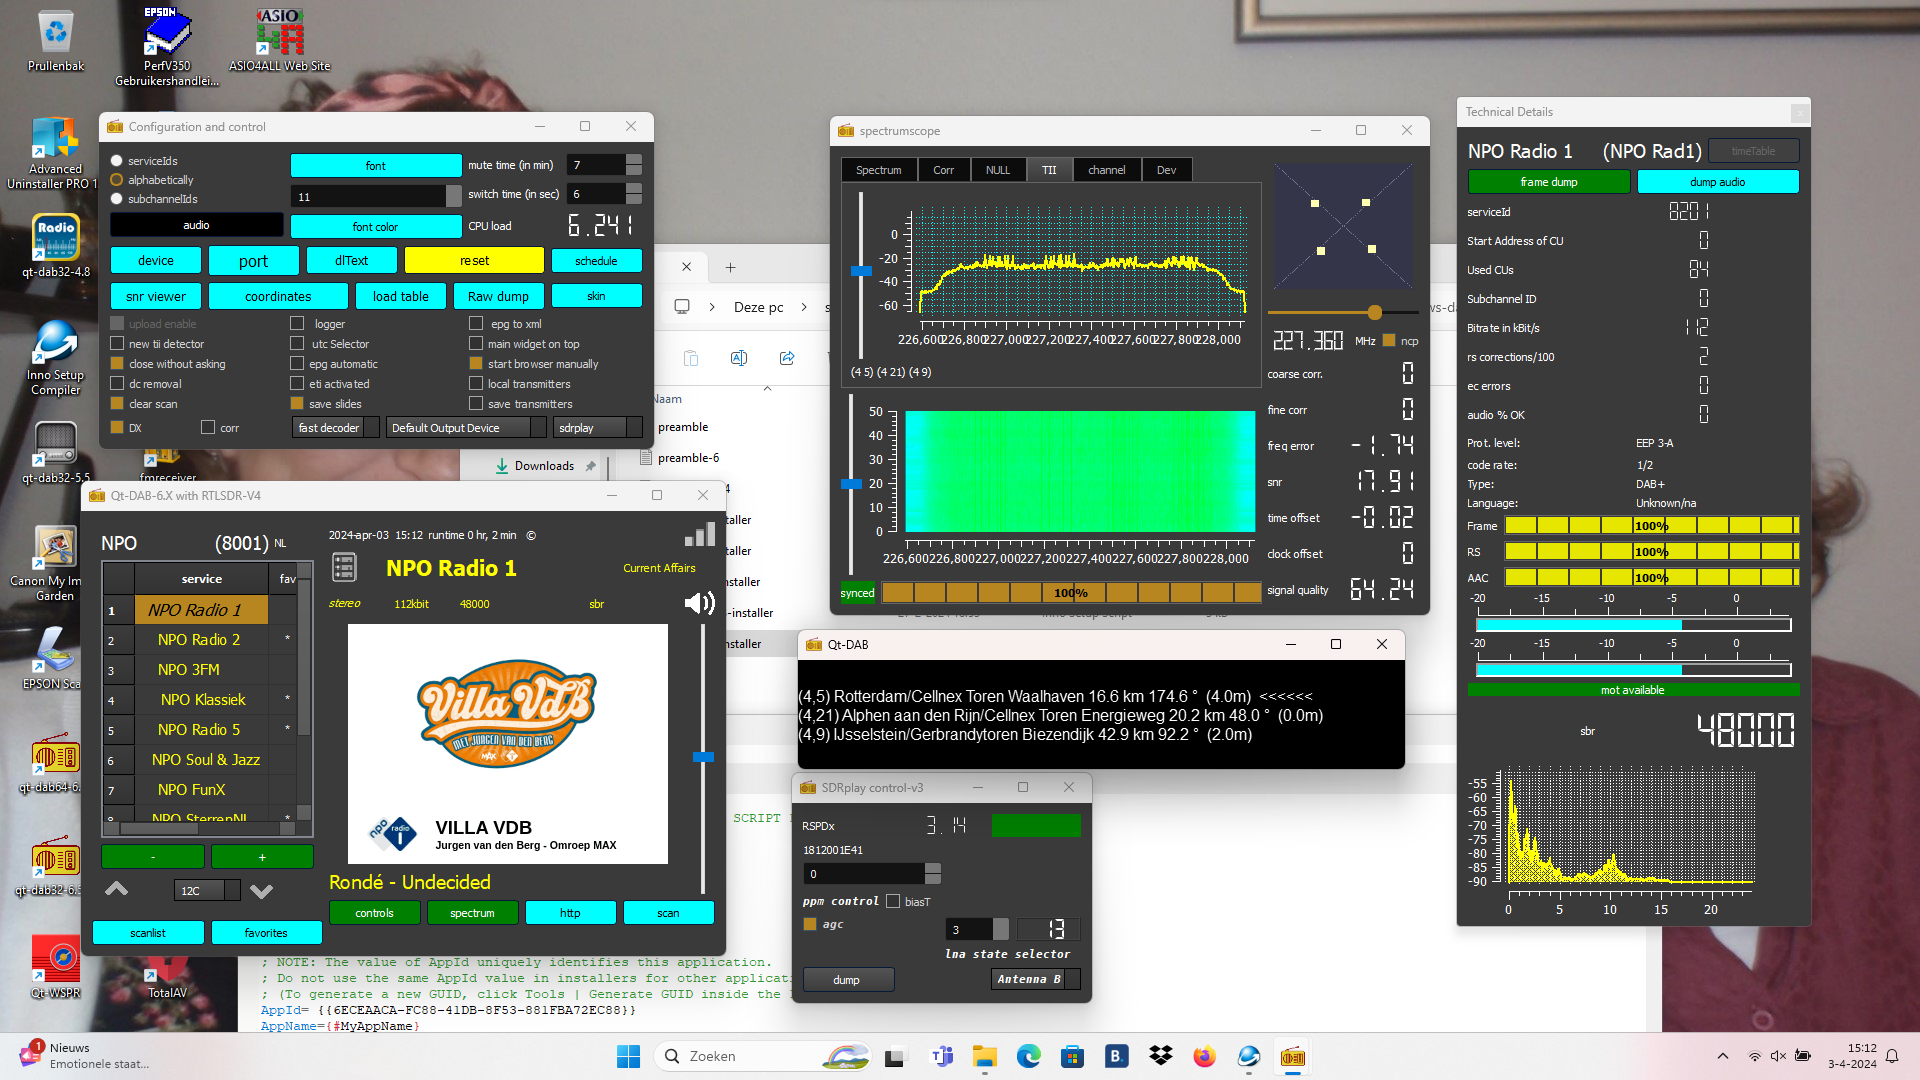
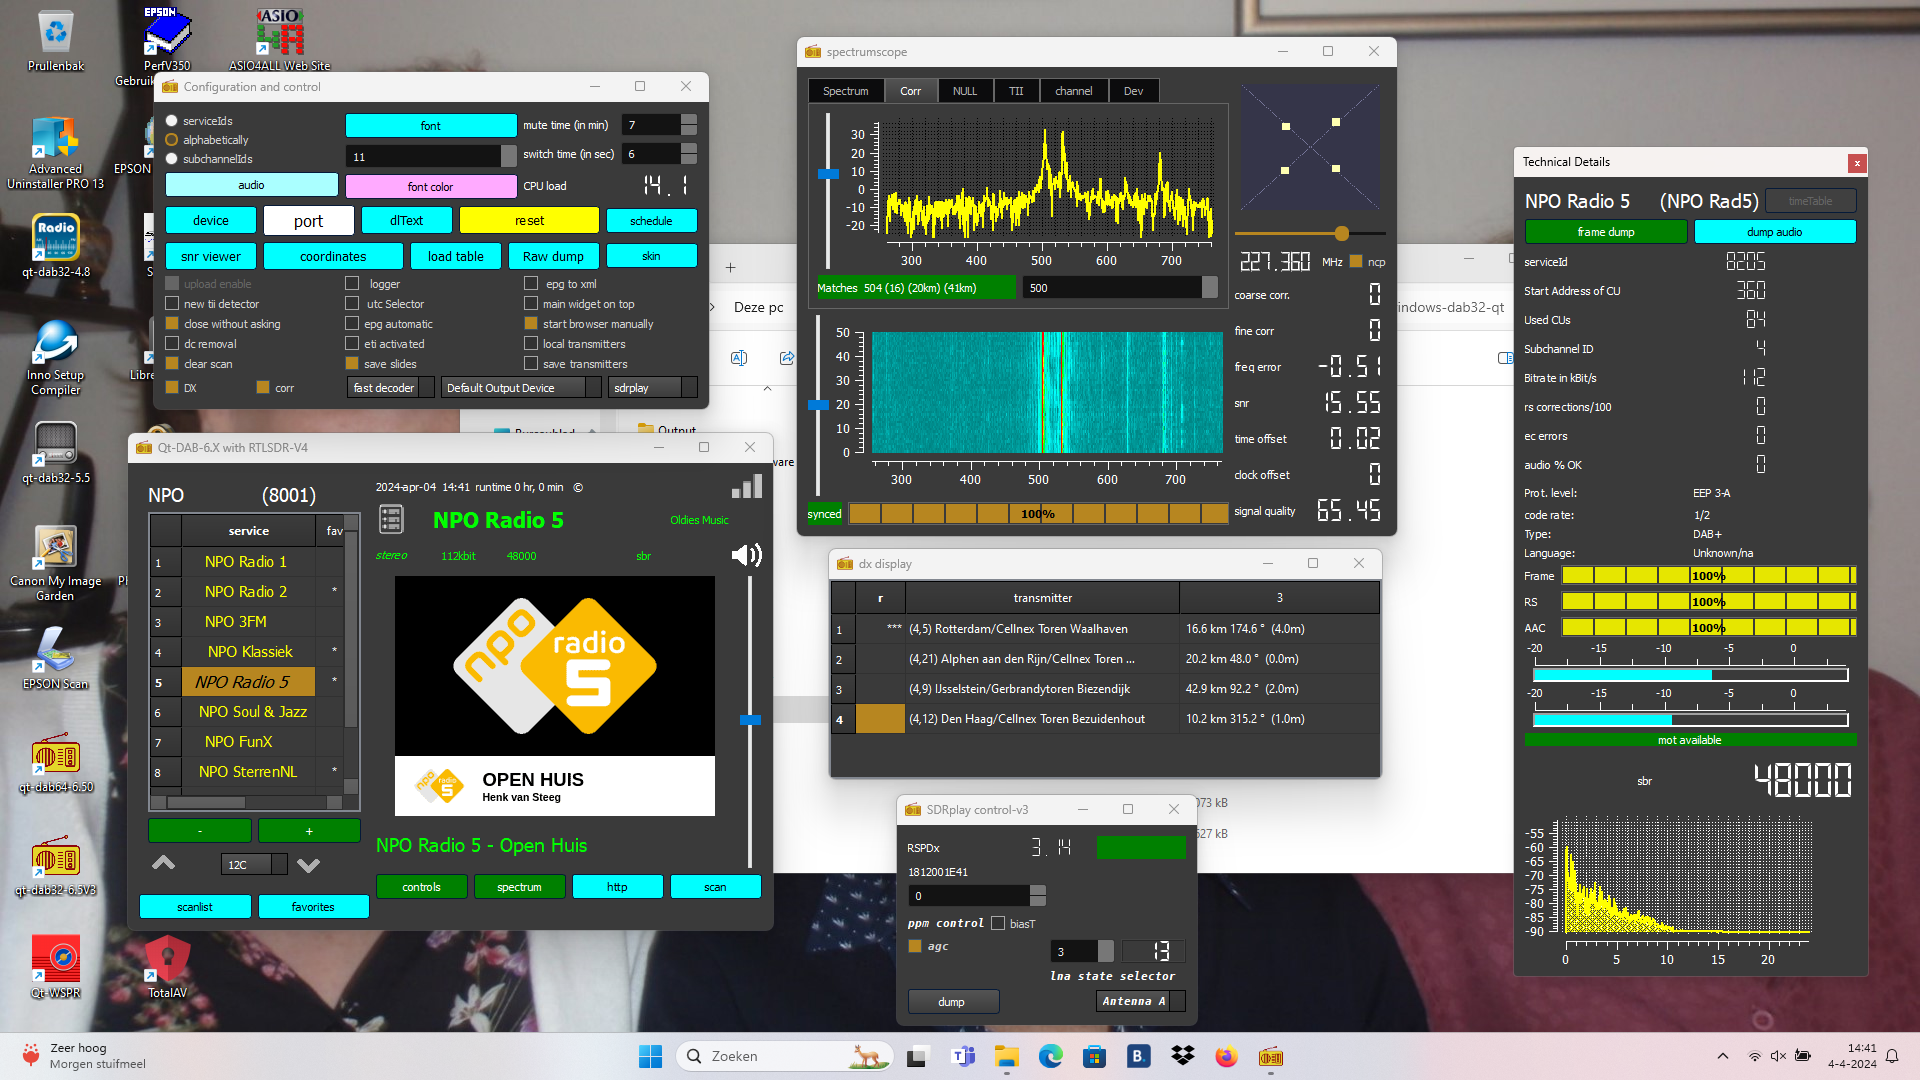
improved DX support

diff --git a/qt-dab-RC/radio.cpp b/qt-dab-RC/radio.cpp
@@ -160,7 +160,7 @@ char	LABEL_STYLE [] = "color:lightgreen";
 	                                        my_scanListHandler (this,
 	                                                        scanListFile),
 	                                        chooseDevice (Si),
-	                                        dxDisplay (nullptr),
+	                                        my_dxDisplay (this, Si),
 	                                        scanMonitor (this, Si, freqExtension) {
 int16_t k;
 QString h;
@@ -178,12 +178,7 @@ QString h;
 	contentTable_p		= nullptr;
 	scanTable_p		= nullptr;
 	mapHandler		= nullptr;
-	dxDisplay. setWindowTitle ("Transmitters received");
-	dxDisplayText		= new QLabel ();
-	QVBoxLayout	*LV	= new QVBoxLayout ();
-	LV	-> addWidget (dxDisplayText);
-	dxDisplay. setLayout (LV);
-	dxDisplay. hide ();
+	my_dxDisplay. hide ();
 //	"globals" is introduced to reduce the number of parameters
 //	for the ofdmHandler
 	globals. spectrumBuffer	= &spectrumBuffer;
@@ -1179,7 +1174,7 @@ void	RadioInterface::TerminateProcess () {
 	   usleep (1000);
 	hideButtons	();
 
-	dxDisplay. hide ();
+	my_dxDisplay. hide ();
 	store_widget_position (dabSettings_p, this, "mainWidget");
 	newDisplay. hide ();
 //
@@ -2202,7 +2197,7 @@ void	RadioInterface::cleanScreen	() {
 	techWindow_p			-> cleanUp ();
 	setStereo	(false);
 	distanceLabel			-> setText ("");
-	dxDisplayText			-> setText ("");
+	my_dxDisplay. cleanUp ();
 	transmitter_country		-> setText ("");
 	newDisplay. ficError_display	-> setValue (0);
 }
@@ -2278,7 +2273,7 @@ int	tunedFrequency	=
 	if (channel. realChannel)
 	   dabSettings_p	-> setValue (CHANNEL_NAME, theChannel);
 	distanceLabel		-> setText ("");
-	dxDisplayText		-> setText ("");
+	my_dxDisplay. cleanUp ();
 	newDisplay. show_transmitters (channel. transmitters);
 	bool localTransmitters =
 	             configHandler_p -> localTransmitterSelector_active ();
@@ -3590,10 +3585,11 @@ cacheElement	theTransmitter;
 	   distanceLabel ->  setFont (f);
 	}
 	else {
-	   QFont f ("Arial", 12);
-	   dxDisplayText -> setFont (f);
+	   my_dxDisplay. cleanUp ();
+	   my_dxDisplay. show ();
 	}
 	QString labelText;
+	int teller = 0;
 	for (auto &theTr : channel. transmitters) {
 	   position thePosition;
 	   thePosition. latitude	= theTr. theTransmitter. latitude;
@@ -3621,18 +3617,19 @@ cacheElement	theTransmitter;
 	      channel. corner	= theCorner;
 	      channel. height	= height;
 	   }
-	int tiiValue_local	= theTr. tiiValue;
-	   if (labelText != "")
-	      labelText += "\n";
-	   labelText += "(" + QString::number (tiiValue_local >> 8) + ","
+	   int tiiValue_local	= theTr. tiiValue;
+	   labelText = "(" + QString::number (tiiValue_local >> 8) + ","
 	                    + QString::number (tiiValue_local & 0xFF) + ") "
-	                    + theName + " " 
+	                    + theName + " ";
+	   QString text2 =  " "
 	                    + QString::number (theDistance, 'f', 1) + " km " 
 	                    + QString::number (theCorner, 'f', 1) 
 	                    + QString::fromLatin1 (" \xb0 ") 
 	                    + " (" + QString::number (height, 'f', 1) +  "m)";
-	   if (dxMode && theTr. isStrongest)
-	      labelText += "  <<<<<<";
+	   if (dxMode) 
+	      my_dxDisplay. addRow (labelText, text2,  theTr. isStrongest);
+	   else 
+	      distanceLabel	-> setText (labelText + text2);
 
 //	see if we have a map
 	   if (mapHandler == nullptr) 
@@ -3659,16 +3656,6 @@ cacheElement	theTransmitter;
 	                          tiiValue,
 	                          theDistance,
 	                          theCorner, power, height);
-	}
-	if (dxMode) {
-	   dxDisplayText -> setText (labelText);
-	   dxDisplay. show ();
-	   distanceLabel	-> setText ("");
-	}
-	else {
-	   dxDisplay. hide ();
-	   dxDisplayText	-> setText ("");
-	   distanceLabel	-> setText (labelText);
 	}
 }
 
@@ -3930,6 +3917,8 @@ void	RadioInterface::handle_dxSelector		(int d) {
 	(void)d;
 	bool b = configHandler_p -> get_dxSelector ();
 	dabSettings_p -> setValue ("dxMode", b ? 1 : 0);
+	if (!b)
+	   my_dxDisplay. hide ();
 	if (my_ofdmHandler != nullptr)
 	   my_ofdmHandler -> set_dxMode (b);
 	if (b)

diff --git a/qt-dab-RC/support/dxDisplay.cpp b/qt-dab-RC/support/dxDisplay.cpp
@@ -1,0 +1,95 @@
+#
+/*
+ *    Copyright (C) 2024
+ *    Jan van Katwijk (J.vanKatwijk@gmail.com)
+ *    Lazy Chair Computing
+ *
+ *    This file is part of Qt-DAB
+ *
+ *    Qt-DAB is free software; you can redistribute it and/or modify
+ *    it under the terms of the GNU General Public License as published by
+ *    the Free Software Foundation; either version 2 of the License, or
+ *    (at your option) any later version.
+ *
+ *    Qt-DAB is distributed in the hope that it will be useful,
+ *    but WITHOUT ANY WARRANTY; without even the implied warranty of
+ *    MERCHANTABILITY or FITNESS FOR A PARTICULAR PURPOSE.  See the
+ *    GNU General Public License for more details.
+ *
+ *    You should have received a copy of the GNU General Public License
+ *    Foundation, Inc., 59 Temple Place, Suite 330, Boston, MA  02111-1307  USA
+ */
+#include	"dxDisplay.h"
+#include	"radio.h"
+#include	"position-handler.h"
+#include	<QHeaderView>
+
+	dxDisplay::dxDisplay (RadioInterface *mr, QSettings *s){
+	dxSettings	= s;
+	myWidget	= new QScrollArea (nullptr);
+	myWidget	-> resize (220, 400);
+	myWidget	-> setWidgetResizable(true);
+
+	tableWidget 	= new QTableWidget (0, 3);
+	tableWidget	-> setColumnWidth (0, 60);
+	tableWidget	-> setColumnWidth (1, 200);
+	tableWidget	-> setColumnWidth (2, 200);
+	QHeaderView *headerView = tableWidget -> horizontalHeader ();
+	headerView	-> setSectionResizeMode (1, QHeaderView::Stretch);
+	headerView	-> resizeSection (0, 50);
+	myWidget	-> setWidget(tableWidget);
+	tableWidget 	-> setHorizontalHeaderLabels (
+	            QStringList () << tr ("r") << tr ("transmitter"));
+	set_position_and_size (s, myWidget, "DX_DISPLAY");
+	myWidget	-> setWindowTitle ("dx display");
+}
+
+	dxDisplay::~dxDisplay () {
+	store_widget_position (dxSettings, myWidget, "DX_DISPLAY");
+	int16_t	rows	= tableWidget -> rowCount ();
+	for (int row = rows; row > 0; row --)
+	   tableWidget -> removeRow (row);
+	delete	tableWidget;
+	delete	myWidget;
+}
+
+void	dxDisplay::cleanUp	() {
+	int16_t	rows	= tableWidget -> rowCount ();
+	for (int row = rows; row >= 0; row --)
+	   tableWidget -> removeRow (row);
+}
+
+int	dxDisplay::nrRows	() {
+	return tableWidget -> rowCount ();
+}
+
+void	dxDisplay::show	() {
+	myWidget	-> show ();
+}
+
+void	dxDisplay::hide	() {
+	myWidget	-> hide ();
+}
+
+void	dxDisplay::addRow (const QString &tr, const QString &ds, bool b) {
+int16_t	row	= tableWidget -> rowCount ();
+
+	tableWidget	-> insertRow (row);
+	QTableWidgetItem *item0	= new QTableWidgetItem;
+	item0		-> setTextAlignment (Qt::AlignRight |Qt::AlignVCenter);
+	tableWidget	-> setItem (row, 0, item0);
+
+	QTableWidgetItem *item1 = new QTableWidgetItem;
+	item1		-> setTextAlignment(Qt::AlignLeft | Qt::AlignVCenter);
+	tableWidget	-> setItem (row, 1, item1);
+
+	QTableWidgetItem *item2 = new QTableWidgetItem;
+	item2		-> setTextAlignment(Qt::AlignLeft | Qt::AlignVCenter);
+	tableWidget	-> setItem (row, 2, item2);
+
+	tableWidget	-> setCurrentItem (item0);
+	tableWidget	-> item (row, 1) -> setText (tr);
+	tableWidget	-> item (row, 2) -> setText (ds);
+	tableWidget	-> item (row, 0) -> setText (b ? "***" : "");
+}
+

diff --git a/qt-dab-RC/support/dxDisplay.h b/qt-dab-RC/support/dxDisplay.h
@@ -1,0 +1,50 @@
+#
+/*
+ *    Copyright (C) 2024
+ *    Jan van Katwijk (J.vanKatwijk@gmail.com)
+ *    Lazy Chair Computing
+ *
+ *    This file is part of Qt-DAB
+ *
+ *    Qt-DAB is free software; you can redistribute it and/or modify
+ *    it under the terms of the GNU General Public License as published by
+ *    the Free Software Foundation; either version 2 of the License, or
+ *    (at your option) any later version.
+ *
+ *    Qt-DAB is distributed in the hope that it will be useful,
+ *    but WITHOUT ANY WARRANTY; without even the implied warranty of
+ *    MERCHANTABILITY or FITNESS FOR A PARTICULAR PURPOSE.  See the
+ *    GNU General Public License for more details.
+ *
+ *    You should have received a copy of the GNU General Public License
+ *    Foundation, Inc., 59 Temple Place, Suite 330, Boston, MA  02111-1307  USA
+ */
+#pragma once
+
+#include	<QWidget>
+#include	<QScrollArea>
+#include	<QTableWidget>
+#include	<QTableWidgetItem>
+#include	<QObject>
+#include	<QSettings>
+
+class	RadioInterface;
+
+class	dxDisplay:public QFrame {
+Q_OBJECT
+public:
+		dxDisplay	(RadioInterface *, QSettings *);
+		~dxDisplay	();
+	void	addRow		(const QString &, const QString &, bool);
+	void	cleanUp		();
+	void	show		();
+	void	hide		();
+	int	nrRows		();
+private:
+	QScrollArea	*myWidget;
+	QTableWidget	*tableWidget;
+	QSettings	*dxSettings;
+};
+
+	
+

diff --git a/qt-dab-RC/radio.h b/qt-dab-RC/radio.h
@@ -44,6 +44,7 @@
 #include	"scanlist-handler.h"
 #include	"dl-cache.h"
 #include	"content-table.h"
+#include	"dxDisplay.h"
 #include	<memory>
 #include	<mutex>
 #ifdef	DATA_STREAMER
@@ -231,7 +232,7 @@ private:
 
 	scanListHandler		my_scanListHandler;
 	deviceChooser		chooseDevice;
-	QFrame			dxDisplay;
+	dxDisplay		my_dxDisplay;
 	scanHandler		scanMonitor;
 	configHandler		*configHandler_p;
 	ensembleHandler		*the_ensembleHandler;

diff --git a/qt-dab-RC/support/config-handler.cpp b/qt-dab-RC/support/config-handler.cpp
@@ -288,7 +288,7 @@ void	configHandler::set_connections () {
 //
 //	Now the checkboxes
 //	top line
-	int upload = dabSettings -> value ("UPLOAD_ENABLRD", 0). toInt ();
+	int upload = dabSettings -> value ("UPLOAD_ENABLED", 0). toInt ();
 	if (upload != 0)
 	   connect (upload_selector, SIGNAL (stateChanged (int)),
 	            this, SLOT (handle_upload_selector	(int)));

diff --git a/README.md b/README.md
@@ -14,25 +14,36 @@
 Recent changes
 ------------------------------------------------------------------------
 
-The development version, Qt-DAB-6.X, contains a few goodies that will
+In the development version, Qt-DAB-6.X,  a few errors that still could 
+occur in Version 6.5. were corrected.
+Furthermore, Qt-DAB-6.X contains a few goodies that will
 be incorporated in the "stable" version to come.
-First of all, - 6.X - has two (sub)systems for the sound handling are
-included. Next to the portaudio interface that was the default
-for a long time, the sound interface provided by Qt itself is interfaces.
-The Qt based version is now the default, A selection will be applied in the
-next program invocation.
-If the Qt-audio interface is selected, a volume slider is shown on
+
+First of, one of the problems with the implemented sound handler was
+that sound did not always work after restarting the program with a
+saved - and therefore selected - audiostream.
+6.X - has now  two (sub)systems for the sound handling.
+Next to the portaudio interface that was the default
+for a long time, the sound interface is provided by Qt itself.
+If the katter audio interface is selected, a **volume slider** is shown on
 the main widget.
 
-Second, as known, most DAN ensembles are transmitted by more than a single
-transmitter. All transmitters in a so-called Single Frequency Network
+As known, most DAB ensembles are transmitted by more than a single
+transmitter. All transmitters in a so-called **Single Frequency Network**
 transmit the same ensemble. However, each transmitter adds a little
-data with which the transmitter can be identified.  In my
-neighbourhoodm there are - for a few ensembles - four transmitters
-within 20 Km.
-The Qt0DAB-6.X version now attempts to identify all transmitetrs that are 
-transmitting the same signal. For that purpose, the notion of "dx mode"
-is introduced in Qt-DAB. Selecting the "dx mode" (with a checkbox on the
+data with which the transmitter can be identified.
+Other than with e.g. FM or AM, where receiving signal at the same time
+from different transmitters, transmitting the same audio is hardly enjoyable,
+with digital modes, the software is able to select data from
+the strongest signal.  In my neighbourhoodm there are - for a few ensembles
+- four transmitters within 20 Km.
+
+New is that while Qt-DAB decodes data from the strongest signal,
+Qt-DAB-6.X has a special **mode**, dxMode, in which it
+tries to identify **all ** transmitetrs that are 
+transmitting the same signal. The TII decoding was adapted for this purpose.
+
+Selecting the "dx mode" (with a checkbox on the
 configuration widget) causes the software to display all transmitters
 the identification of which could be extracted from the signal
 
